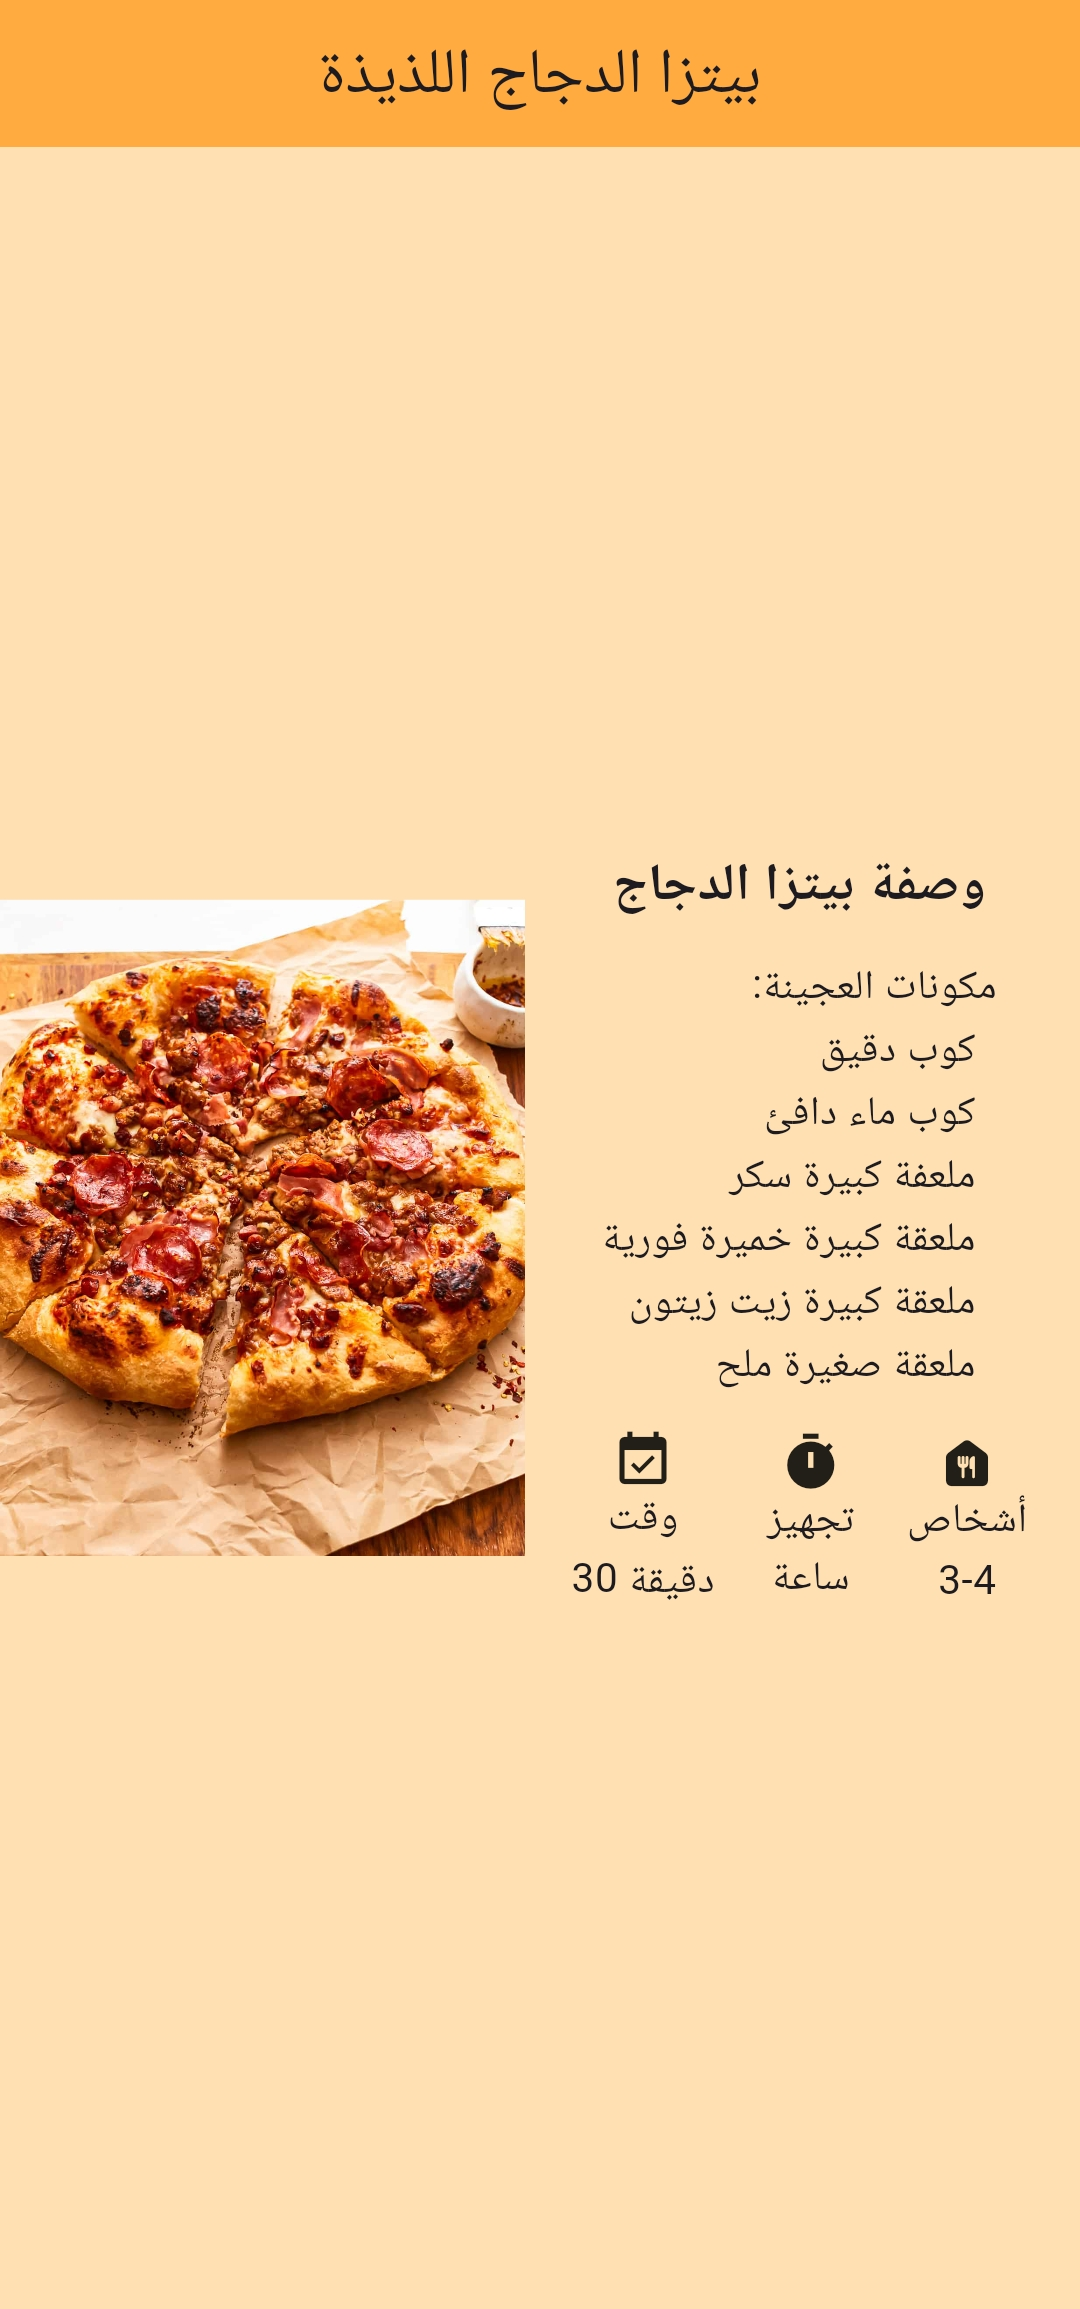
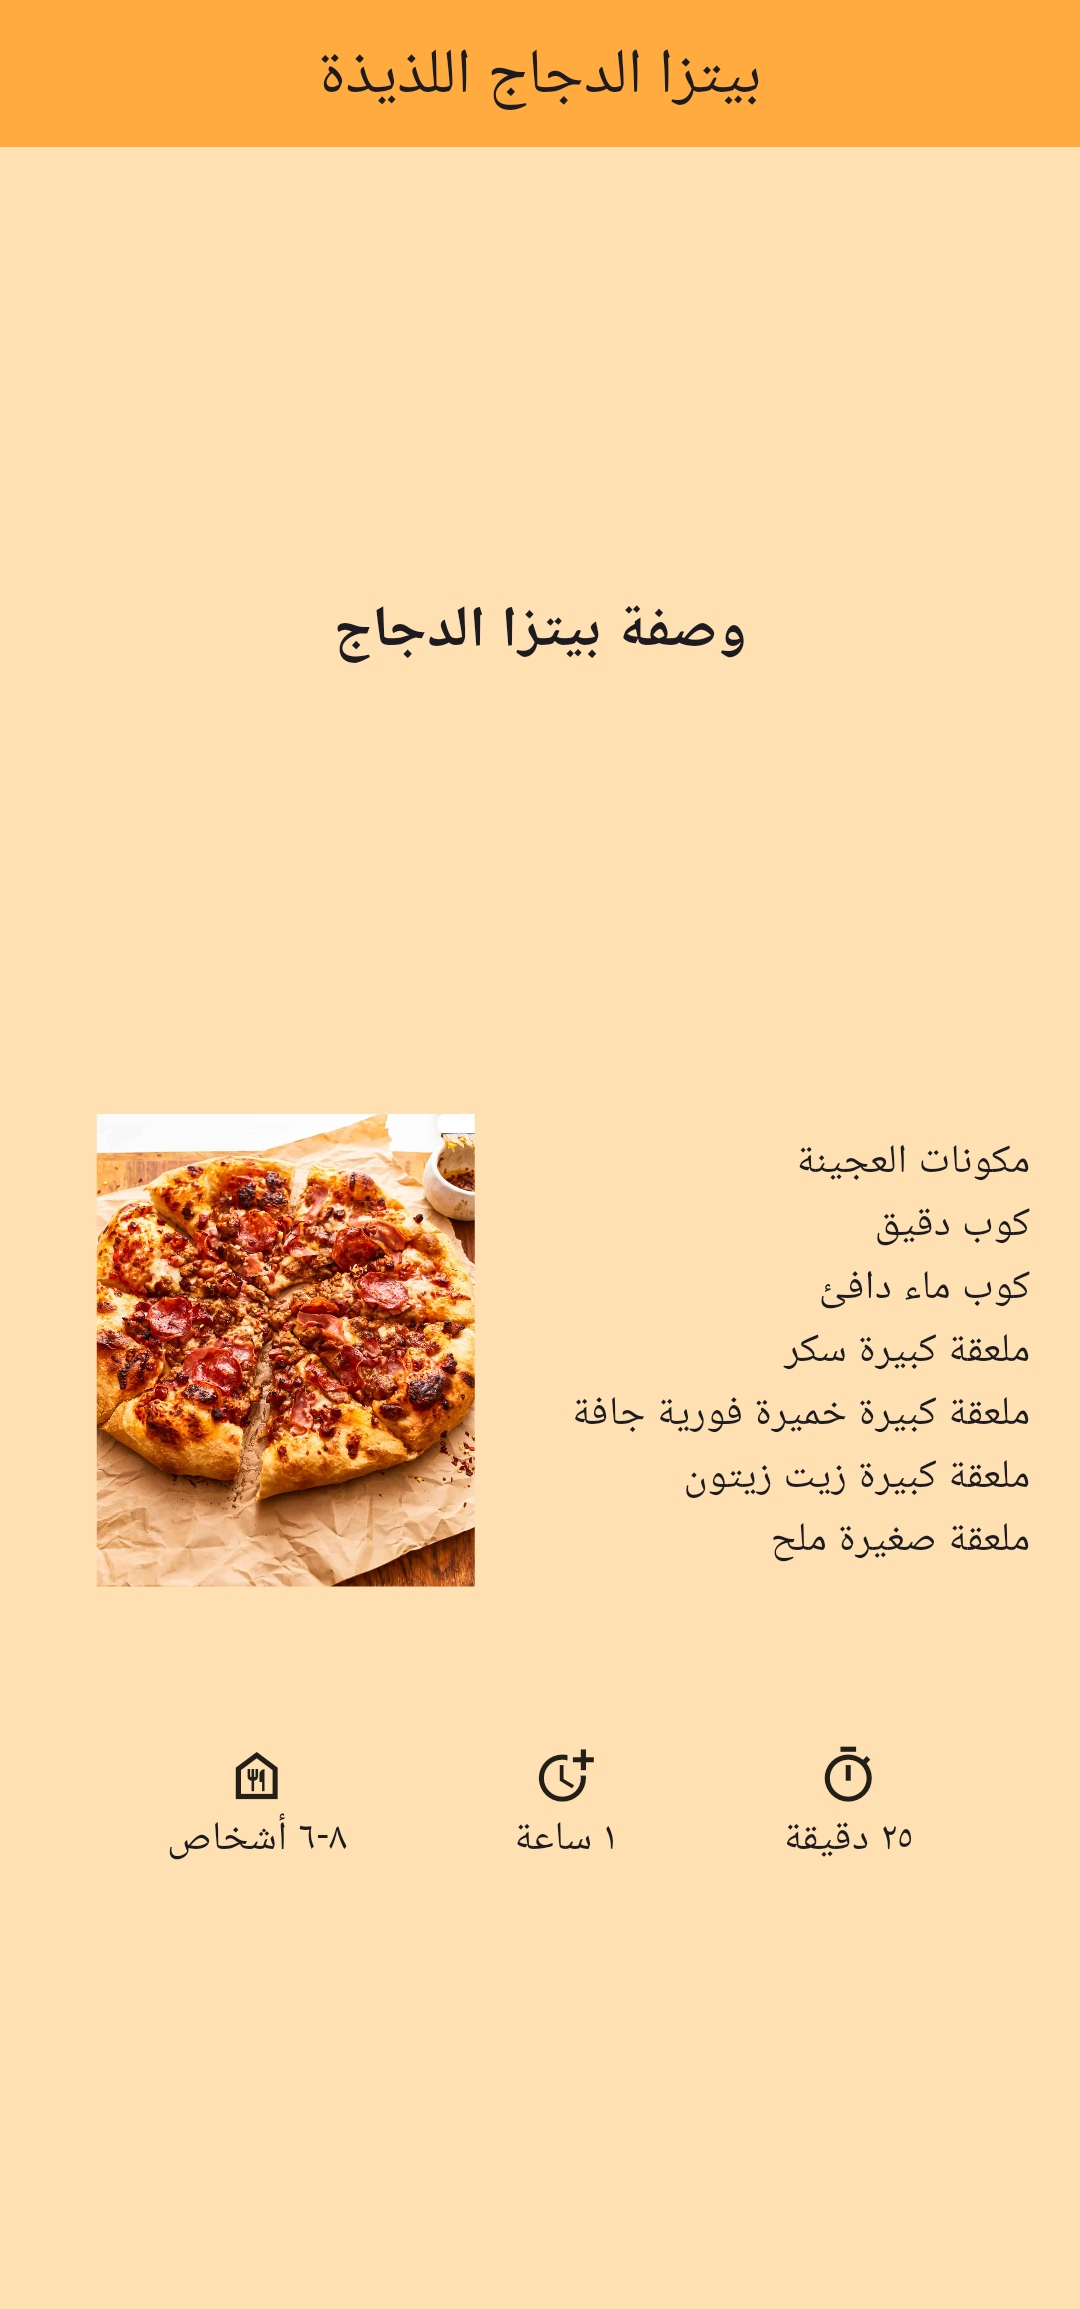
update the Ui Screen after the task edited

diff --git a/lib/main.dart b/lib/main.dart
@@ -19,64 +19,65 @@ class MyApp extends StatelessWidget {
           title: Text("بيتزا الدجاج اللذيذة"),
           backgroundColor: Colors.orangeAccent,
         ),
-        body: Row(
-          mainAxisAlignment: MainAxisAlignment.spaceBetween,
+        body: Column(
+          mainAxisAlignment: MainAxisAlignment.spaceEvenly,
           children: [
-            Image(
-              image: AssetImage("images/pizaa.jpg"),
-              width: 200,
-              height: 250,
+            Text(
+              "وصفة بيتزا الدجاج",
+              style: TextStyle(fontSize: 20, fontWeight: FontWeight.bold),
             ),
-            Container(
-              margin: EdgeInsets.only(right: 20),
-              child: Column(
-                mainAxisAlignment: MainAxisAlignment.center,
-                spacing: 12,
-                children: [
-                  Text(
-                    "وصفة بيتزا الدجاج",
-                    style: TextStyle(fontSize: 18, fontWeight: FontWeight.bold),
-                  ),
-                  Column(
-                    crossAxisAlignment: CrossAxisAlignment.end,
-                    children: [
-                      Text(":مكونات العجينة"),
-                      Text("كوب دقيق  "),
-                      Text("كوب ماء دافئ  "),
-                      Text("ملعفة كبيرة سكر  "),
-                      Text("ملعقة كبيرة خميرة فورية  "),
-                      Text("ملعقة كبيرة زيت زيتون  "),
-                      Text("ملعقة صغيرة ملح  "),
-                    ],
-                  ),
-                  Row(
-                    spacing: 20,
-                    children: [
-                      Column(
-                        children: [
-                          Icon(Icons.event_available),
-                          Text("وقت"),
-                          Text("30 دقيقة"),
-                        ],
-                      ),
-                      Column(
-                        children: [
-                          Icon(Icons.timer),
-                          Text("تجهيز"),
-                          Text("ساعة"),
-                        ],
-                      ),
-                      Column(
-                        children: [
-                          Icon(Icons.food_bank_rounded),
-                          Text("أشخاص"),
-                          Text("3-4"),
-                        ],
-                      ),
-                    ],
-                  ),
-                ],
-              ),
+            Column(
+              spacing: 60,
+              children: [
+                Row(
+                  mainAxisAlignment: MainAxisAlignment.spaceEvenly,
+                  children: [
+                    Image(
+                      image: AssetImage("images/pizaa.jpg"),
+                      width: 180,
+                      height: 180,
+                    ),
+                    Column(
+                      mainAxisAlignment: MainAxisAlignment.center,
+                      spacing: 12,
+                      children: [
+                        Column(
+                          crossAxisAlignment: CrossAxisAlignment.end,
+                          children: [
+                            Text("مكونات العجينة"),
+                            Text("كوب دقيق"),
+                            Text("كوب ماء دافئ"),
+                            Text("ملعقة كبيرة سكر"),
+                            Text("ملعقة كبيرة خميرة فورية جافة"),
+                            Text("ملعقة كبيرة زيت زيتون"),
+                            Text("ملعقة صغيرة ملح"),
+                          ],
+                        ),
+                      ],
+                    ),
+                  ],
+                ),
+                Row(
+                  mainAxisAlignment: MainAxisAlignment.spaceEvenly,
+                  children: [
+                    Column(
+                      children: [
+                        Icon(Icons.food_bank_outlined),
+                        Text("٨-٦ أشخاص"),
+                      ],
+                    ),
+                    Column(
+                      children: [
+                        Icon(Icons.more_time_outlined),
+                        Text("١ ساعة"),
+                      ],
+                    ),
+                    Column(
+                      children: [Icon(Icons.timer_outlined), Text("٢٥ دقيقة")],
+                    ),
+                  ],
+                ),
+              ],
             ),
           ],
         ),
